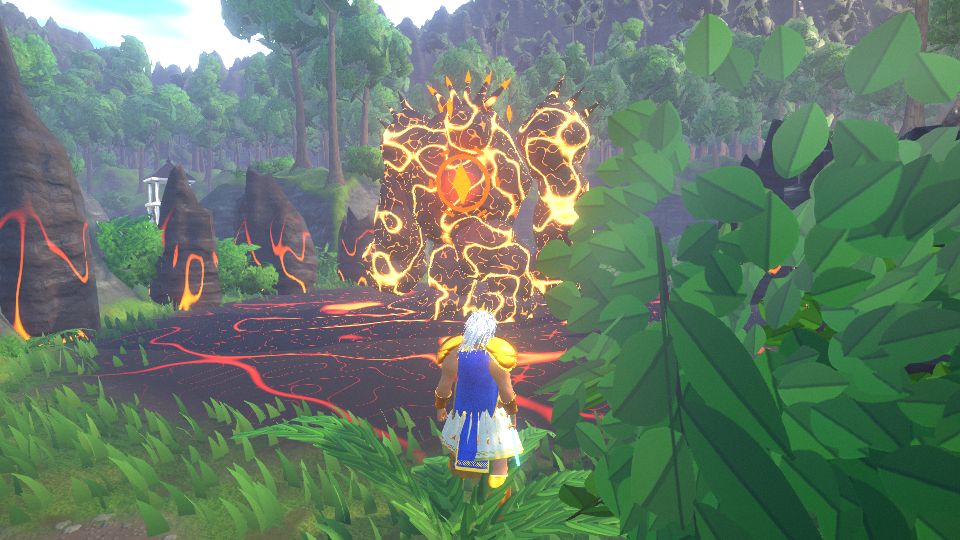
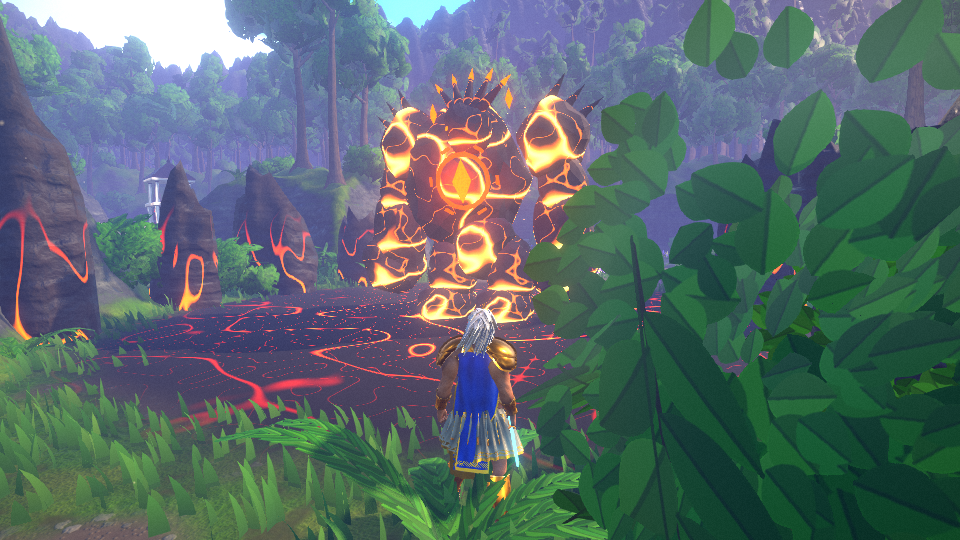
Monsters: object-space shading, calmer Colossus cracks, rising embers
The Warden's stone, the Colossus's lava cracks and the Wyrm's scales were
shaded in world space, so the patterns slid across the bodies whenever they
moved. They now shade in object space. The Colossus's crack network is
thinner and less dense so the basalt reads, and sparks drift up off it,
faster while it winds up an attack.

Claude-Session: https://claude.ai/code/session_01CS3nLkfFCmTK2mTPcVAoi3

diff --git a/src/combat/MonsterViews.ts b/src/combat/MonsterViews.ts
@@ -1,5 +1,5 @@
 import * as THREE from 'three/webgpu';
-import { abs, float, mix, mx_noise_float, mx_worley_noise_float, normalWorld, positionLocal, positionWorld, sin, smoothstep, time, uv, vec3 } from '../render/tsl';
+import { abs, float, mix, mx_noise_float, mx_worley_noise_float, normalWorld, positionLocal, sin, smoothstep, time, uv, vec3, vec4 } from '../render/tsl';
 import type { CampKind } from '../map/ConquestLayout';
 import { BUFF_COLOR } from '../scene/conquest/Props';
 import { MonsterBrain } from '../sim/Jungle';
@@ -55,10 +55,11 @@ function buildShared() {
   const hoof = new THREE.MeshStandardNodeMaterial({ color: 0x1b1410, roughness: 0.5 });
   // weathered stone with moss on every upward face
   const stone = new THREE.MeshStandardNodeMaterial({ roughness: 0.88 });
-  const grain = n(3.5, positionWorld).mul(0.6).add(n(14, positionWorld).mul(0.4));
-  const moss = smoothstep(0.2, 0.7, normalWorld.y.add(n(2.2, positionWorld).sub(0.5).mul(0.7)));
+  // object space, so the stone's pattern stays on the Warden as it walks and swings
+  const grain = n(3.5).mul(0.6).add(n(14).mul(0.4));
+  const moss = smoothstep(0.2, 0.7, normalWorld.y.add(n(2.2).sub(0.5).mul(0.7)));
   const rockCol = mix(vec3(0.16, 0.16, 0.19), vec3(0.38, 0.35, 0.32), grain);
-  stone.colorNode = mix(rockCol, mix(vec3(0.17, 0.3, 0.07), vec3(0.32, 0.46, 0.12), n(9, positionWorld)), moss.mul(0.92));
+  stone.colorNode = mix(rockCol, mix(vec3(0.17, 0.3, 0.07), vec3(0.32, 0.46, 0.12), n(9)), moss.mul(0.92));
   stone.roughnessNode = float(0.95).sub(moss.mul(0.1));
   return { fur, hide, bone, hoof, stone };
 }
@@ -276,6 +277,7 @@ function giant(o: GiantOptions): MonsterView {
   // arms: shoulder boulder, upper arm, forearm and a huge fist, with rune bands
   const arms: THREE.Group[] = [];
   let core: THREE.PointLight | null = null;
+  let embers: Embers | null = null;
   if (o.molten) {
     // a crown of basalt horns with molten tips, spiked shoulders, a fire in its chest
     const horn = geo('mc-horn', () => new THREE.ConeGeometry(0.11, 0.7, 7).translate(0, 0.35, 0));
@@ -290,6 +292,7 @@ function giant(o: GiantOptions): MonsterView {
     core = new THREE.PointLight(o.glow, 30, 16, 2);
     core.position.set(0, 0.95, 1.2);
     torso.add(core);
+    embers = makeEmbers(body);
   }
   for (const sx of [-1, 1]) {
     mesh(torso, geo('wd-shoulder', () => rock(0.66, 17)), stone, sx * 1.22, 1.5, 0);
@@ -334,6 +337,7 @@ function giant(o: GiantOptions): MonsterView {
       torso.rotation.x = 0.18 - raise * 0.25 + smash * 0.35 - special * 0.15;
       hips.position.y -= special * 0.25;
       if (core) core.intensity = 30 + raise * 40 + Math.sin(t * 5) * 6;
+      embers?.step(dt, deathTime >= 0 ? 0 : 1 + raise * 2);
       // living crystal: the heart pulses, the shards orbit, the head looks about
       const pulse = 1 + Math.sin(t * 3) * 0.08 + raise * 0.25;
       heart.scale.setScalar(pulse);
@@ -359,21 +363,77 @@ function giant(o: GiantOptions): MonsterView {
 // ---------------------------------------------------------------------------
 // Molten Colossus material
 
+const EMBERS = 26;
+let emberMat: THREE.SpriteNodeMaterial | null = null;
+
+interface Embers {
+  /** Advance the sparks; `rate` scales how fast they rise and how many show (0 lets them die out). */
+  step(dt: number, rate: number): void;
+}
+
+/** Sparks that drift up off the Colossus's body and wink out. */
+function makeEmbers(parent: THREE.Object3D): Embers {
+  if (!emberMat) {
+    const m = new THREE.SpriteNodeMaterial({ transparent: true, depthWrite: false, blending: THREE.AdditiveBlending });
+    const r = uv().sub(0.5).length().mul(2);
+    const f = smoothstep(1, 0, r).pow(2);
+    m.colorNode = vec4(vec3(1, 0.42, 0.08).mul(6).add(smoothstep(0.3, 0, r).mul(4)).mul(f), 1);
+    m.opacityNode = f;
+    emberMat = m;
+  }
+  const sparks = Array.from({ length: EMBERS }, () => {
+    const s = new THREE.Sprite(emberMat!);
+    parent.add(s);
+    return { s, age: Math.random() * 2.5, life: 1.6 + Math.random() * 1.4, x: 0, y: 0, z: 0, vx: 0, vz: 0 };
+  });
+  const respawn = (p: (typeof sparks)[number]) => {
+    const a = Math.random() * Math.PI * 2;
+    const r = 0.5 + Math.random() * 1.1;
+    p.x = Math.cos(a) * r;
+    p.z = Math.sin(a) * r * 0.7;
+    p.y = 0.6 + Math.random() * 2.2;
+    p.vx = (Math.random() - 0.5) * 0.3;
+    p.vz = (Math.random() - 0.5) * 0.3;
+    p.age = 0;
+  };
+  for (const p of sparks) respawn(p);
+  return {
+    step(dt, rate) {
+      for (const p of sparks) {
+        p.age += dt * Math.max(0.5, rate);
+        if (p.age > p.life) {
+          if (rate <= 0) {
+            p.s.visible = false;
+            continue;
+          }
+          respawn(p);
+        }
+        const k = p.age / p.life;
+        p.s.visible = true;
+        p.s.position.set(p.x + p.vx * p.age + Math.sin(p.age * 3 + p.life) * 0.08, p.y + p.age * 0.9, p.z + p.vz * p.age);
+        // flare in, then shrink to nothing
+        p.s.scale.setScalar(0.14 * Math.min(1, k * 6) * (1 - k));
+      }
+    },
+  };
+}
+
 let lava: THREE.Material | null = null;
 
 /** Black basalt split by a network of glowing molten cracks that throb slowly. */
 function lavaStone(): THREE.Material {
   if (lava) return lava;
   const m = new THREE.MeshStandardNodeMaterial({ roughness: 0.9 });
-  const p = positionWorld;
+  // object space, so the cracks stay put on the Colossus's body as it moves
+  const p = positionLocal;
   const basalt = mix(vec3(0.05, 0.04, 0.04), vec3(0.17, 0.13, 0.12), n(2.5, p).mul(0.7).add(n(11, p).mul(0.3)));
   // noise zero-crossings make a branching crack network; a finer octave adds hairline cracks
-  const wide = smoothstep(0.09, 0.0, abs(mx_noise_float(p.mul(0.9))));
-  const fine = smoothstep(0.05, 0.0, abs(mx_noise_float(p.mul(2.6).add(7)))).mul(0.6);
+  const wide = smoothstep(0.06, 0.0, abs(mx_noise_float(p.mul(0.9))));
+  const fine = smoothstep(0.03, 0.0, abs(mx_noise_float(p.mul(2.6).add(7)))).mul(0.45);
   const crack = wide.add(fine).clamp(0, 1);
   const throb = sin(time.mul(1.8).add(n(0.6, p).mul(6))).mul(0.25).add(0.85);
   m.colorNode = mix(basalt, vec3(1, 0.45, 0.12), crack.mul(0.6));
-  m.emissiveNode = mix(vec3(1, 0.22, 0.02), vec3(1, 0.7, 0.25), crack.pow(3)).mul(crack.mul(throb).mul(4.5));
+  m.emissiveNode = mix(vec3(1, 0.22, 0.02), vec3(1, 0.7, 0.25), crack.pow(3)).mul(crack.mul(throb).mul(4));
   m.roughnessNode = float(0.92).sub(crack.mul(0.4));
   return (lava = m);
 }
@@ -410,7 +470,8 @@ function bezier(out: THREE.Vector3, a: THREE.Vector3, b: THREE.Vector3, c: THREE
  */
 function wyrm(): MonsterView {
   const scales = new THREE.MeshPhysicalNodeMaterial({ metalness: 0.8, roughness: 0.3, clearcoat: 0.5, clearcoatRoughness: 0.3 });
-  const cell = mx_worley_noise_float(positionWorld.mul(3.2));
+  // object space: the coils move every frame, and world-space scales would slide across them
+  const cell = mx_worley_noise_float(positionLocal.mul(3.2));
   const rim = smoothstep(0.15, 0.55, cell);
   const belly = smoothstep(-0.05, -0.45, normalWorld.y);
   const gold = mix(vec3(1, 0.8, 0.32), vec3(0.5, 0.27, 0.06), rim);
